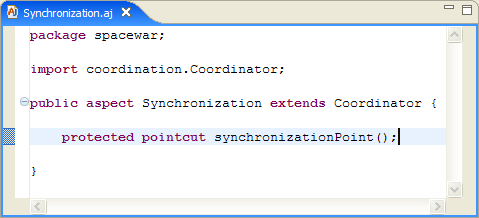
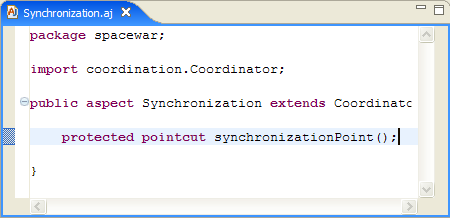
Resized some images for the new features page

diff --git a/newfeatures/index.php b/newfeatures/index.php
@@ -166,7 +166,8 @@ or for further discussion or suggestions please visit the
            We have also created an animated demo to demonstrate this new feature.
            See the <a href="../demos/index.html#LTW-DEMO">demos page</a> for details.
         </p>
-       <p><img src="ltwscreenshot.png" width="666" height="580" alt="Screenshot showing the load-time weaving launch configuration"></p>
+       <p><a href="ltwscreenshot.png">
+       <img src="ltwscreenshot450.png" width="450" height="392" alt="Screenshot showing the load-time weaving launch configuration"></a></p>
 			
 			</li>
 			
@@ -273,7 +274,8 @@ or for further discussion or suggestions please visit the
         spot this purely from the editor markers, Cross References view, and Visualiser view offered by
         AJDT. These views show you the current state of the crosscutting but not how it has changed --
         this is where the Crosscutting Comparison view comes in.</p>
-        <p><img src="comparison.png" width="565" height="165" alt="screenshot showing the Crosscutting Comparison view"></p>
+        <p><a href="comparison.png">
+        <img src="comparison450.png" width="450" height="131" alt="screenshot showing the Crosscutting Comparison view"></a></p>
 		</li>
 		</ul>
 			</li>
@@ -324,13 +326,14 @@ or for further discussion or suggestions please visit the
            applicable to aspects, code completion is available for package names,
            and when extending an abstract aspect, stubs can be created for any
            inherited abstract pointcuts.
-              <br><img src="NewAspect.png" width="495" height="625" alt="screenshot showing the New Aspect wizard">
+              <br><a href="NewAspect.png">
+              <img src="NewAspect450.png" width="450" height="568" alt="screenshot showing the New Aspect wizard"></a>
            </li>
            <li>The comments generated and formatting
            used for new aspects matches the Eclipse settings for new
            classes - for example on Eclipse 3.1 the default is not to
            generate comments.
-              <br><img src="generatedAspect.png" width="479" height="218" alt="screenshot showing a generated aspect">
+              <br><img src="generatedAspect.png" width="450" height="218" alt="screenshot showing a generated aspect">
            </li>
            </ul>
  
@@ -354,7 +357,7 @@ or for further discussion or suggestions please visit the
 		     A new 'Filters...' button has been added to the Cross References view menu which can be
 		     accessed via the drop down toggle button on the toolbar or by pressing the key
 		     combination Ctrl + F10.
-			 <br><img src="xRefViewMenu.PNG" width="545" height="181" alt="Screenshot showing the Cross References view menu">
+			 <br><img src="xRefViewMenu.PNG" width="450" height="181" alt="Screenshot showing the Cross References view menu">
 		     </p>
 		     <p>
 		     This presents a dialog containing the various types of relationship which can be excluded
@@ -365,7 +368,7 @@ or for further discussion or suggestions please visit the
 		     <p>
              Checking relationships in the dialog and clicking OK will see any relationships of this
              type filtered from the view.
-		     <br><img src="xRefViewFiltered.PNG" width="545" height="131" alt="Screenshot showing the filtered Cross References view">
+		     <br><img src="xRefViewFiltered.PNG" width="450" height="131" alt="Screenshot showing the filtered Cross References view">
 		     </p>
 
 		     </li>
@@ -377,7 +380,7 @@ or for further discussion or suggestions please visit the
 		     The same functionality is available in the quick form of the Cross References view
 		     which appears over the editor. The filters applied to each view are independent of each
 		     another.
-		     <br><img src="xRefInplaceViewMenu.PNG" width="531" height="157" alt="Screenshot showing the Cross References in-place view menu">
+		     <br><img src="xRefInplaceViewMenu.PNG" width="450" height="157" alt="Screenshot showing the Cross References in-place view menu">
 		     </p>
 
 		     </li>		   
@@ -419,7 +422,7 @@ or for further discussion or suggestions please visit the
              pointcuts, which now appear as hyperlinks, so that you can click to
              navigate to the pointcut definition. Note that the implementation of this
              hyperlink feature uses Eclipse 3.1 API and so is not available on AJDT 1.2.1 for Eclipse 3.0.
-		     <br><img src="hyperlink.png" width="599" height="93" alt="Screenshot showing a control-click hyperlink">		     
+		     <br><img src="hyperlink.png" width="450" height="93" alt="Screenshot showing a control-click hyperlink"> 
 		     </p>
 		     </li>
 
@@ -430,7 +433,7 @@ or for further discussion or suggestions please visit the
 		     <br>As an alternative of navigating to a pointcut's definition, you can also
 		     hover over the use of the pointcut, and the source code for it will
 		     appear as a tooltip.
-		     <br><img src="sourcehover.png" width="599" height="127" alt="Screenshot showing a pointcut source hover">
+		     <br><img src="sourcehover.png" width="450" height="127" alt="Screenshot showing a pointcut source hover">
 		     </p>
 		     </li>		   
 		   </ul>
